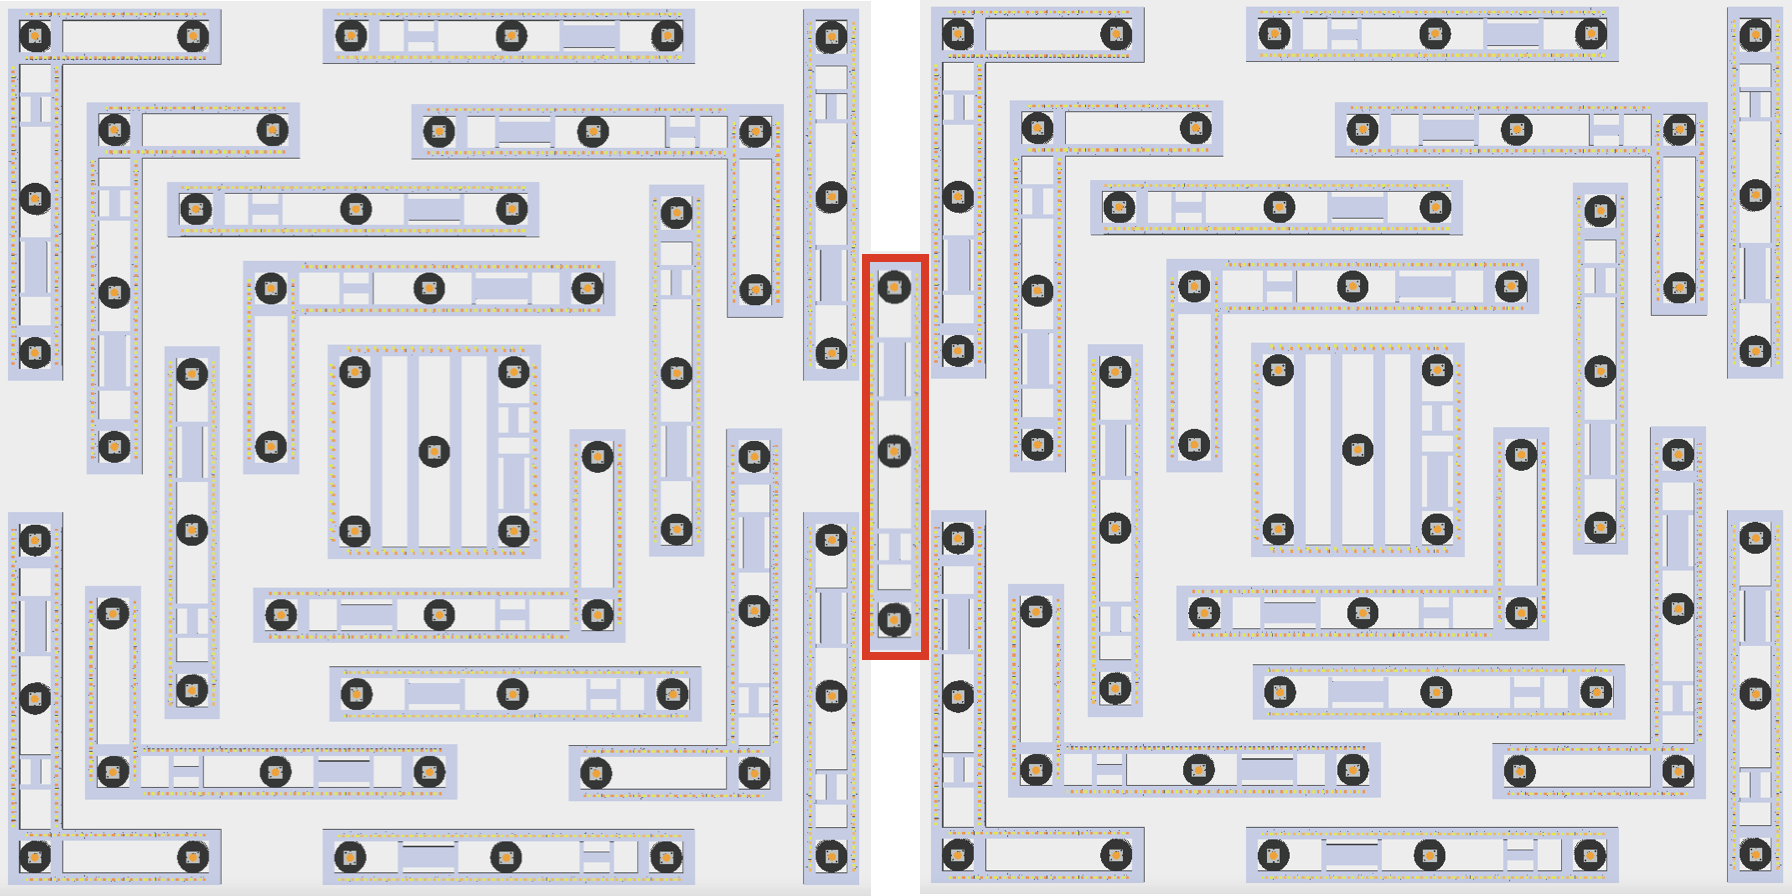
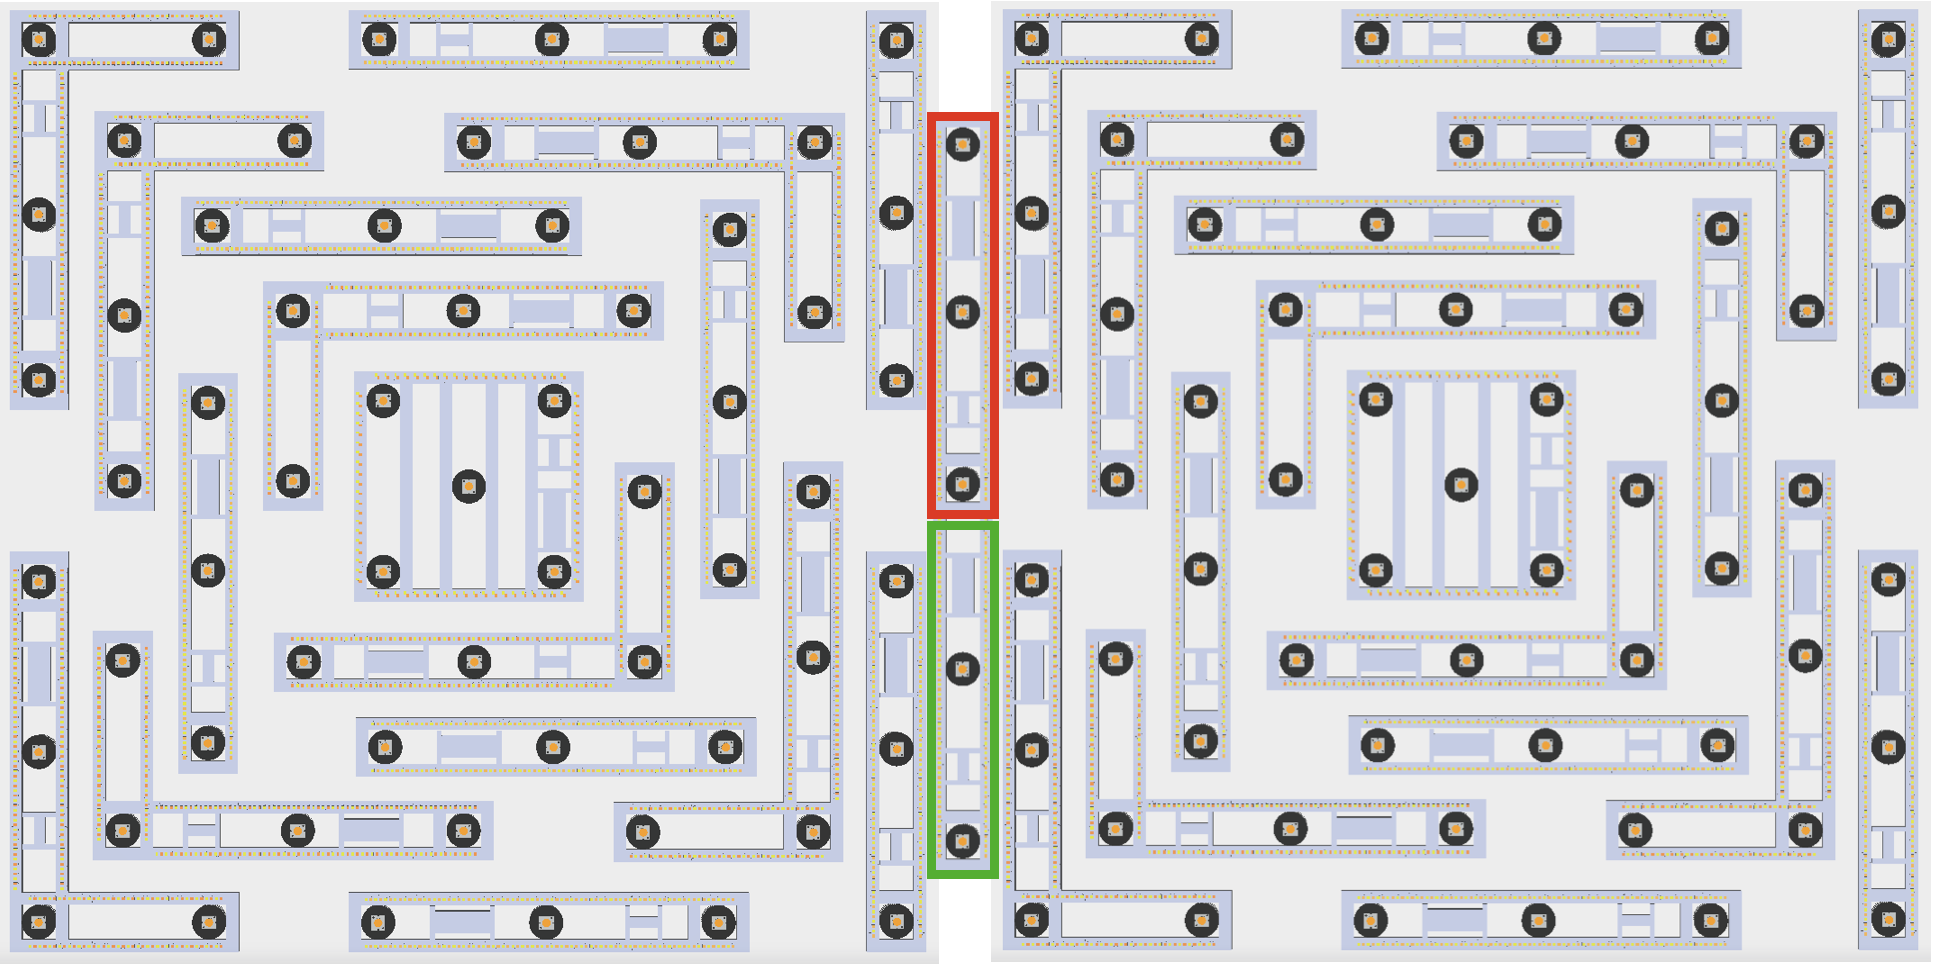
Update connector piece

diff --git a/main/templates/main/technology.html b/main/templates/main/technology.html
@@ -79,7 +79,7 @@
                 <div class="image-container">
                     <img src="{% static 'main/images/fixture.png' %}" alt="Modular Assembly #4" id="mod7-image" width="500" height="500" style="display: block; margin: 0 auto;">
                 </div>
-                <p>With just 1 linear connector module, two square lighting arrangements can be conjoined to form a perfect rectangular lighting array.</p>
+                <p>With just 2 linear connector modules, two square lighting arrangements can be conjoined to form a perfect rectangular lighting array.</p>
                 <div class="image-container">
                     <img src="{% static 'main/images/csnrect.png' %}" alt="CSN Rect" id="csnrect-image" width="896" height="448" style="display: block; margin: 0 auto;">
                 </div>
